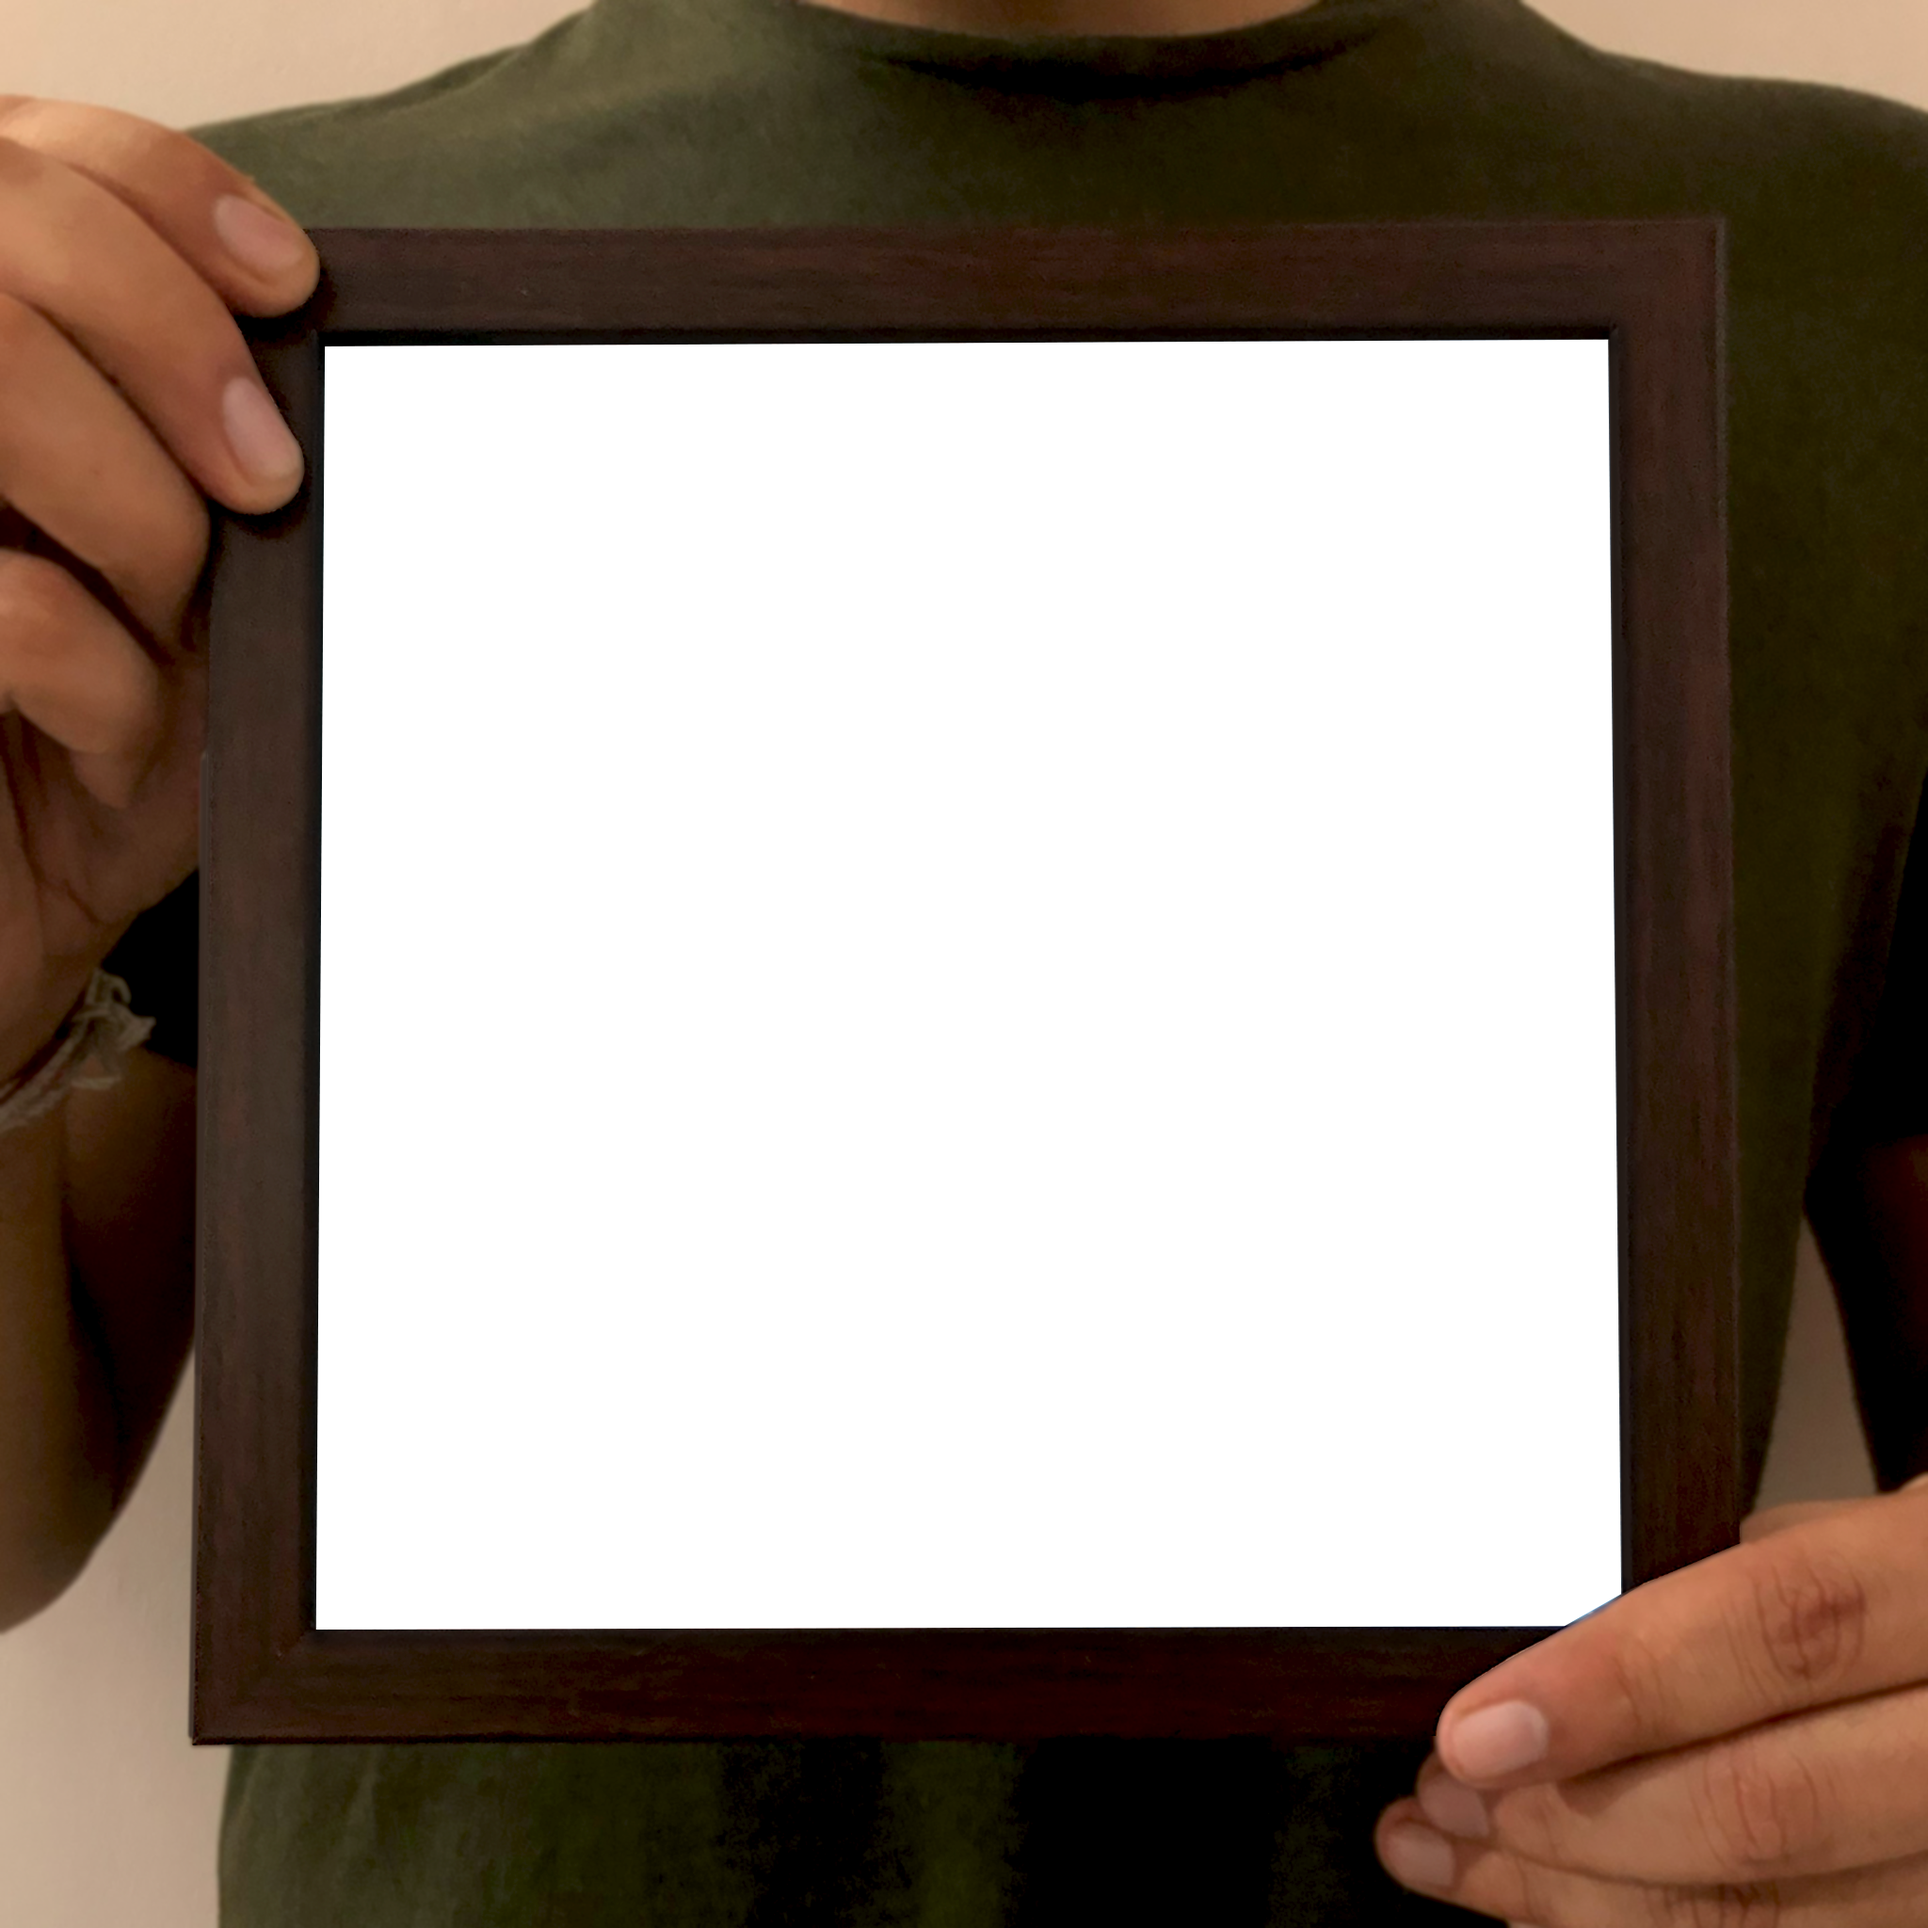
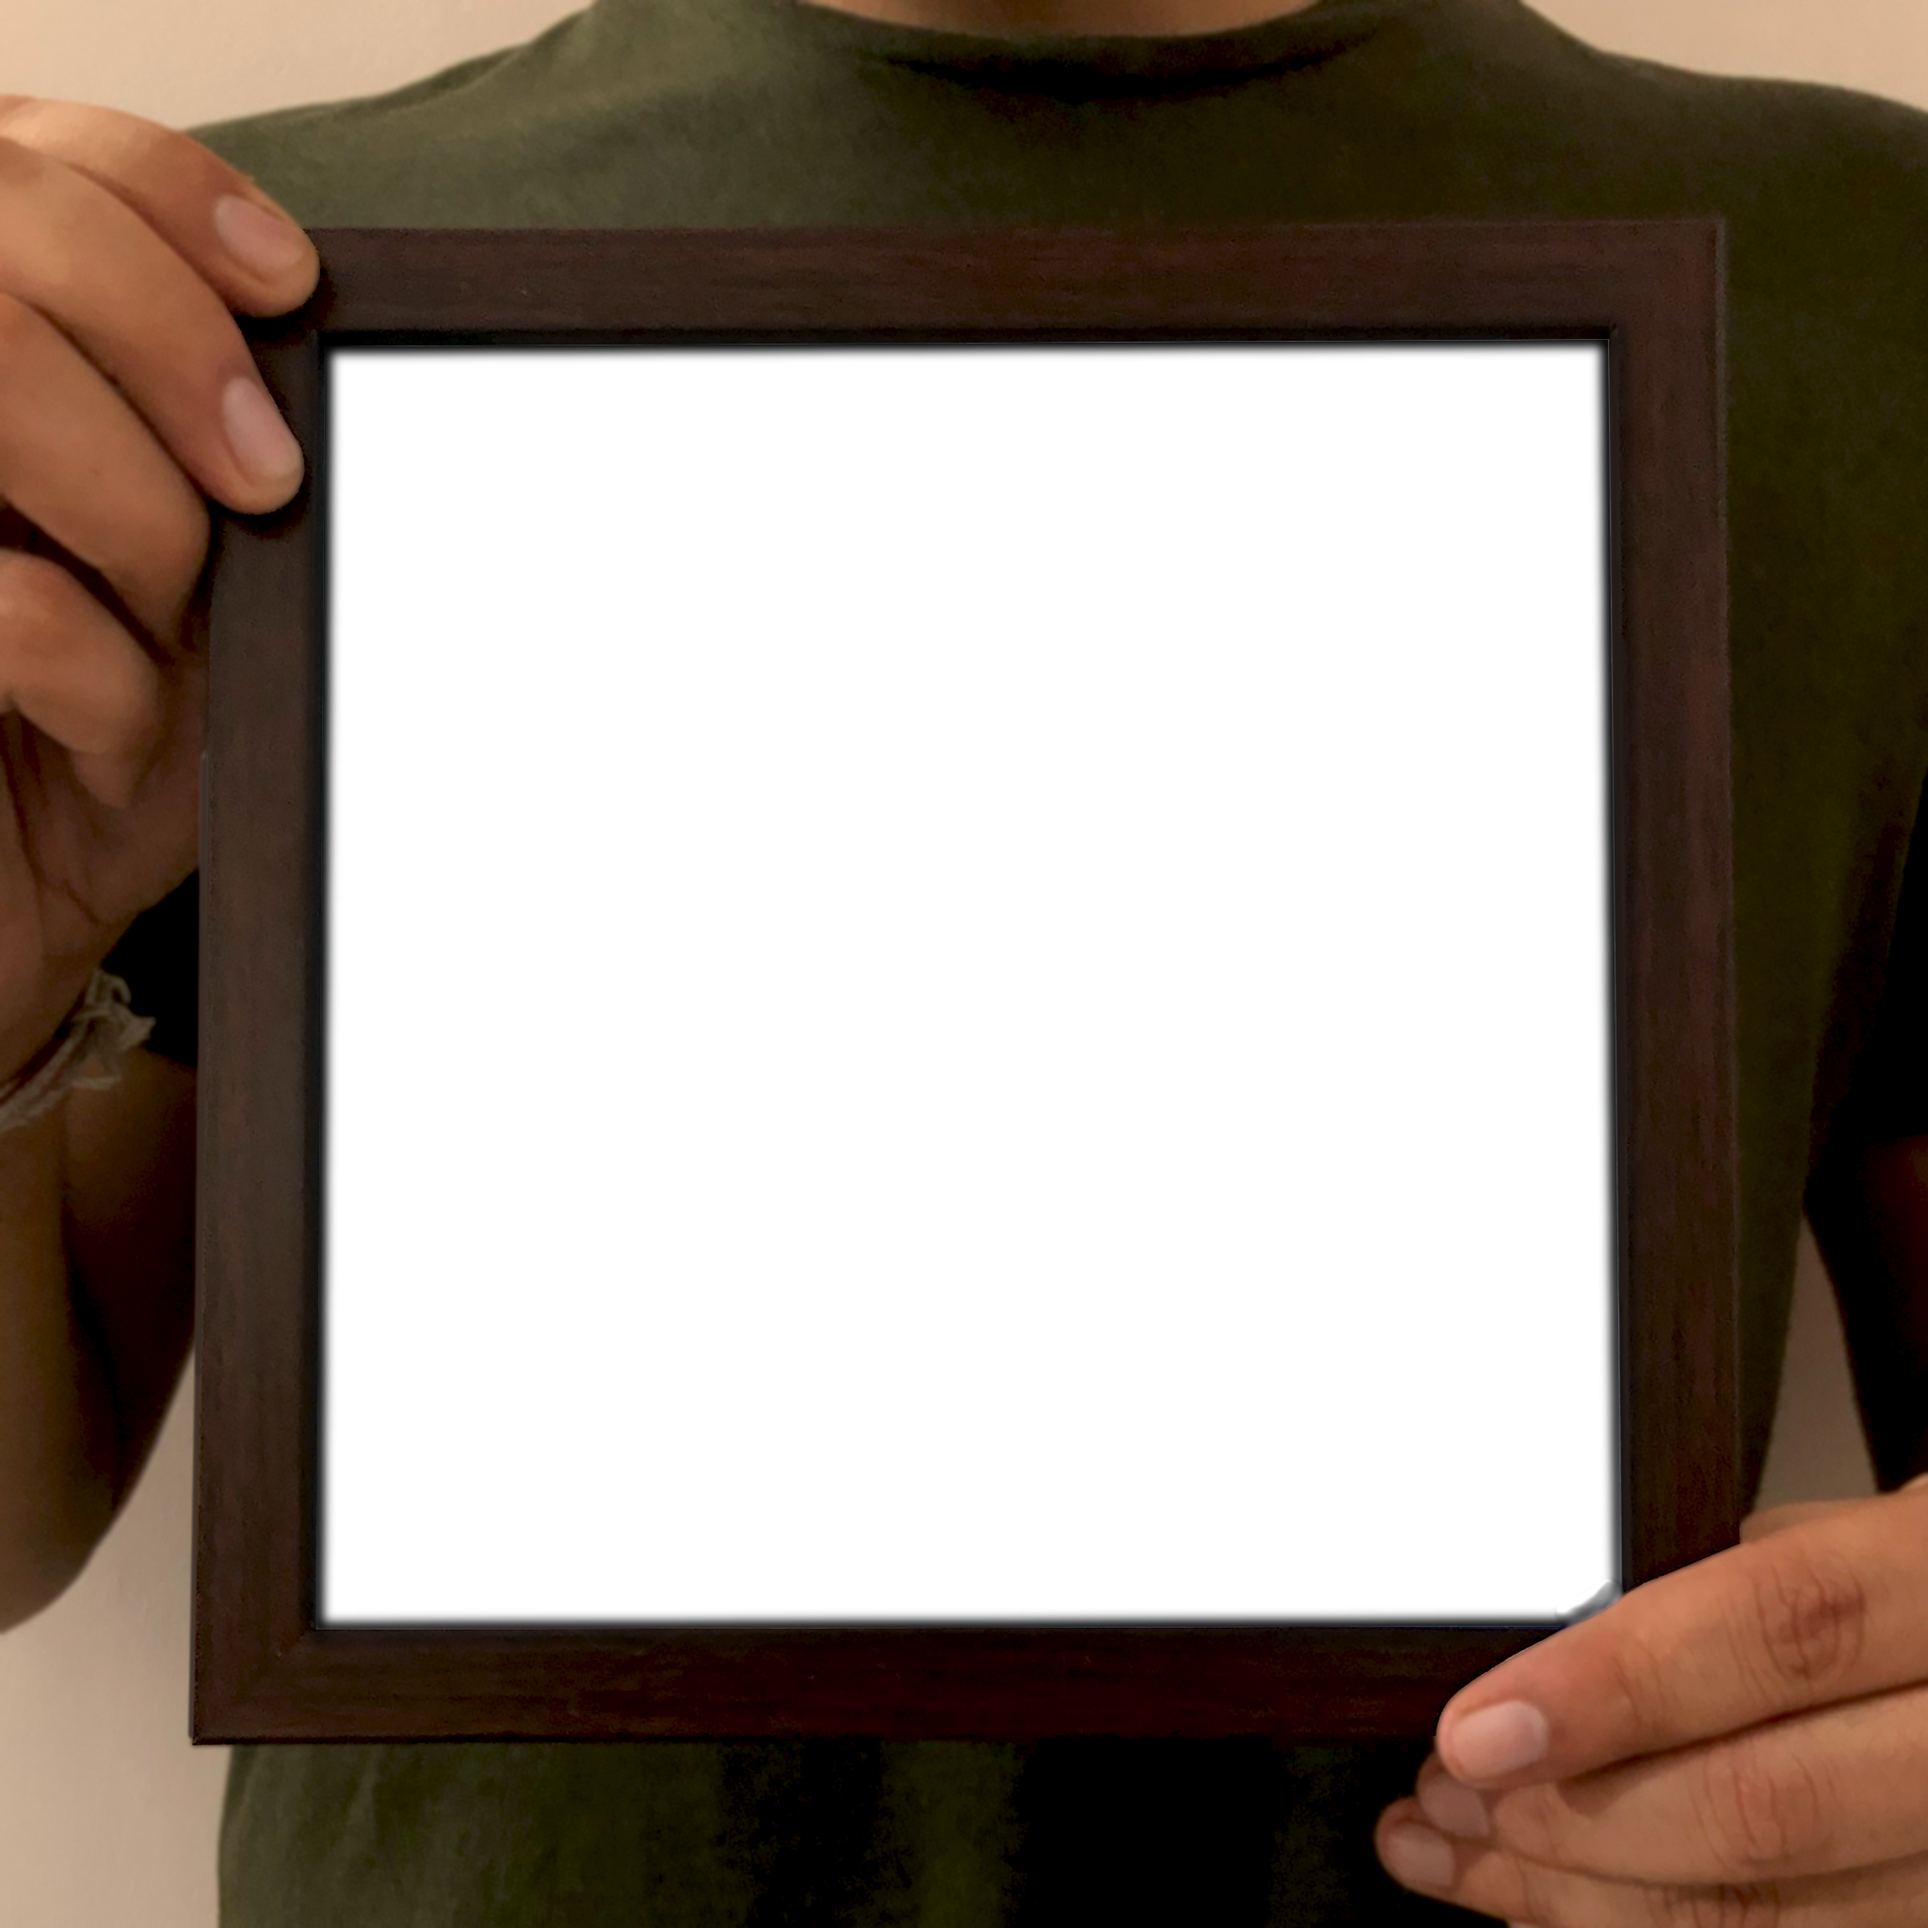
added shadows to the images

Changed region(s): [[0.1562, 0.1562, 0.8438, 0.8438]]

diff --git a/index.html b/index.html
@@ -9,13 +9,14 @@
       canvas {
         transform-origin: top left;
         image-rendering: pixelated;
+        margin-top: 20px;
       }
       .bg {
         height: 500px;
         overflow: hidden;
         position: relative;
       }
-      i{
+      i {
         position: absolute;
         top: 10px;
         left: 10px;
@@ -24,7 +25,7 @@
         filter: drop-shadow(0 0 6px black);
         cursor: pointer;
       }
-      i:active{
+      i:active {
         color: white;
       }
     </style>
@@ -32,7 +33,7 @@
   <body>
     <input type="file" name="" id="" />
     <script>
-      let noOfImages = 6;
+      let noOfImages = 8;
       const imgHeight = 500;
       const margin = 40;
       const imagesCont = document.getElementById("images-cont");
@@ -40,7 +41,7 @@
         let scale = imgHeight / img.height;
         img.style.transform = `scale(${scale})`;
       }
-      for (let i = 0; i < 5; i++) {
+      for (let i = 0; i < noOfImages; i++) {
         let canvas = document.createElement("canvas");
         let ctx = canvas.getContext("2d");
         let img = new Image();
@@ -52,15 +53,15 @@
           let tempDiv = document.createElement("div");
           tempDiv.appendChild(canvas);
           tempDiv.classList.add("bg");
-          let downloadBtn = document.createElement("i")
+          let downloadBtn = document.createElement("i");
           downloadBtn.classList.add("bi", "bi-cloud-arrow-down-fill");
           downloadBtn.onclick = () => {
-            let a = document.createElement("a")
-            a.href = canvas.toDataURL()
-            a.download = `img${i}.png`
-            a.click()
-          }
-          tempDiv.appendChild(downloadBtn)
+            let a = document.createElement("a");
+            a.href = canvas.toDataURL();
+            a.download = `img${i}.png`;
+            a.click();
+          };
+          tempDiv.appendChild(downloadBtn);
           fit(canvas);
           document.body.appendChild(tempDiv);
         };
@@ -68,64 +69,65 @@
       const input = document.querySelector("input");
       input.onchange = () => {
         const file = input.files[0];
-        let img = new Image()
-        img.src = URL.createObjectURL(file)
+        let img = new Image();
+        img.src = URL.createObjectURL(file);
         img.onload = () => {
           let bgs = document.querySelectorAll(".bg");
           bgs.forEach((item) => {
-            let canvas = item.firstElementChild
-            let img1 = new Image()
-            let ctx = canvas.getContext("2d")
-            img1.src = canvas.toDataURL()
-            let rect = findTransparentCorners(canvas)
-            console.log(rect);
-            let scale = 1
-            ctx.drawImage(img, rect.left - margin * scale, rect.top - margin * scale, rect.right - rect.left + margin*scale*2, rect.bottom - rect.top + margin*scale*2)
+            let canvas = item.firstElementChild;
+            let img1 = new Image();
+            let ctx = canvas.getContext("2d");
+            img1.src = canvas.toDataURL();
+            let rect = findTransparentCorners(canvas);
+            // console.log(rect);
+            let scale = 1;
+            let t = canvas.style.transform
+            // console.log(canvas, Number(t.slice(6, t.length - 1)));
+            ctx.drawImage(img, rect.left - margin * scale, rect.top - margin * scale, rect.right - rect.left + margin * scale * 2, rect.bottom - rect.top + margin * scale * 2);
             img1.onload = () => {
-              ctx.drawImage(img1, 0, 0, img1.width, img1.height)
-            }
+              ctx.drawImage(img1, 0, 0, img1.width, img1.height);
+            };
           });
-        }
+        };
       };
 
-      function findTransparentCorners(canvas) {
-        canvas.toBlob(blob => console.log(URL.createObjectURL(blob)))
-        const context = canvas.getContext("2d");
-        // Get the image data
-        const imageData = context.getImageData(0, 0, canvas.width, canvas.height);
+      function findTransparentCorners(canvas, scaleFactor = 0.1) {
+        // Create a temporary canvas
+        const tempCanvas = document.createElement("canvas");
+        tempCanvas.width = canvas.width * scaleFactor;
+        tempCanvas.height = canvas.height * scaleFactor;
+        const tempCtx = tempCanvas.getContext("2d");
+
+        // Draw the original image onto the temporary canvas, scaled down
+        tempCtx.drawImage(canvas, 0, 0, tempCanvas.width, tempCanvas.height);
+
+        // Get image data from the temporary canvas
+        const imageData = tempCtx.getImageData(0, 0, tempCanvas.width, tempCanvas.height);
         const data = imageData.data;
-        let centerHorizontalPixel = (canvas.height * 4) / 2;
-        let centerVerticalPixel = (canvas.height / 2) * canvas.width * 4;
-        let top = null;
-        let bottom = null;
-        let left = null;
-        let right = null;
-        for (let i = 0; i < canvas.height; i++) {
-          let temp = i * canvas.width * 4 + centerHorizontalPixel;
-          if (data[temp + 3] == 0) {
-            if (!top) {
-              top = i;
-            } else {
-              bottom = i;
+
+        let top = tempCanvas.height,
+          bottom = -1,
+          left = tempCanvas.width,
+          right = -1;
+        for (let y = 0; y < tempCanvas.height; y++) {
+          for (let x = 0; x < tempCanvas.width; x++) {
+            const alpha = data[(y * tempCanvas.width + x) * 4 + 3];
+            if (alpha < 200) {
+              if (y < top) top = y;
+              if (y > bottom) bottom = y;
+              if (x < left) left = x;
+              if (x > right) right = x;
             }
           }
         }
-        for (let i = centerVerticalPixel; i < centerVerticalPixel + canvas.width * 4; i += 4) {
-          // console.log(data[i], data[i + 1], data[i + 2], data[i + 3]);
-          if (data[i + 3] == 0) {
-            if (!left) {
-              left = (i - centerVerticalPixel) / 4;
-            } else {
-              right = (i - centerVerticalPixel) / 4;
-            }
-          }
-        }
-        return {
-          top: top,
-          right: right,
-          left: left,
-          bottom: bottom,
-        };
+
+        // Scale the coordinates back to the original canvas size
+        if (top !== tempCanvas.height) top = Math.floor(top / scaleFactor);
+        if (left !== tempCanvas.width) left = Math.floor(left / scaleFactor);
+        if (bottom !== -1) bottom = Math.ceil(bottom / scaleFactor);
+        if (right !== -1) right = Math.ceil(right / scaleFactor);
+
+        return { top, right, left, bottom };
       }
     </script>
   </body>
